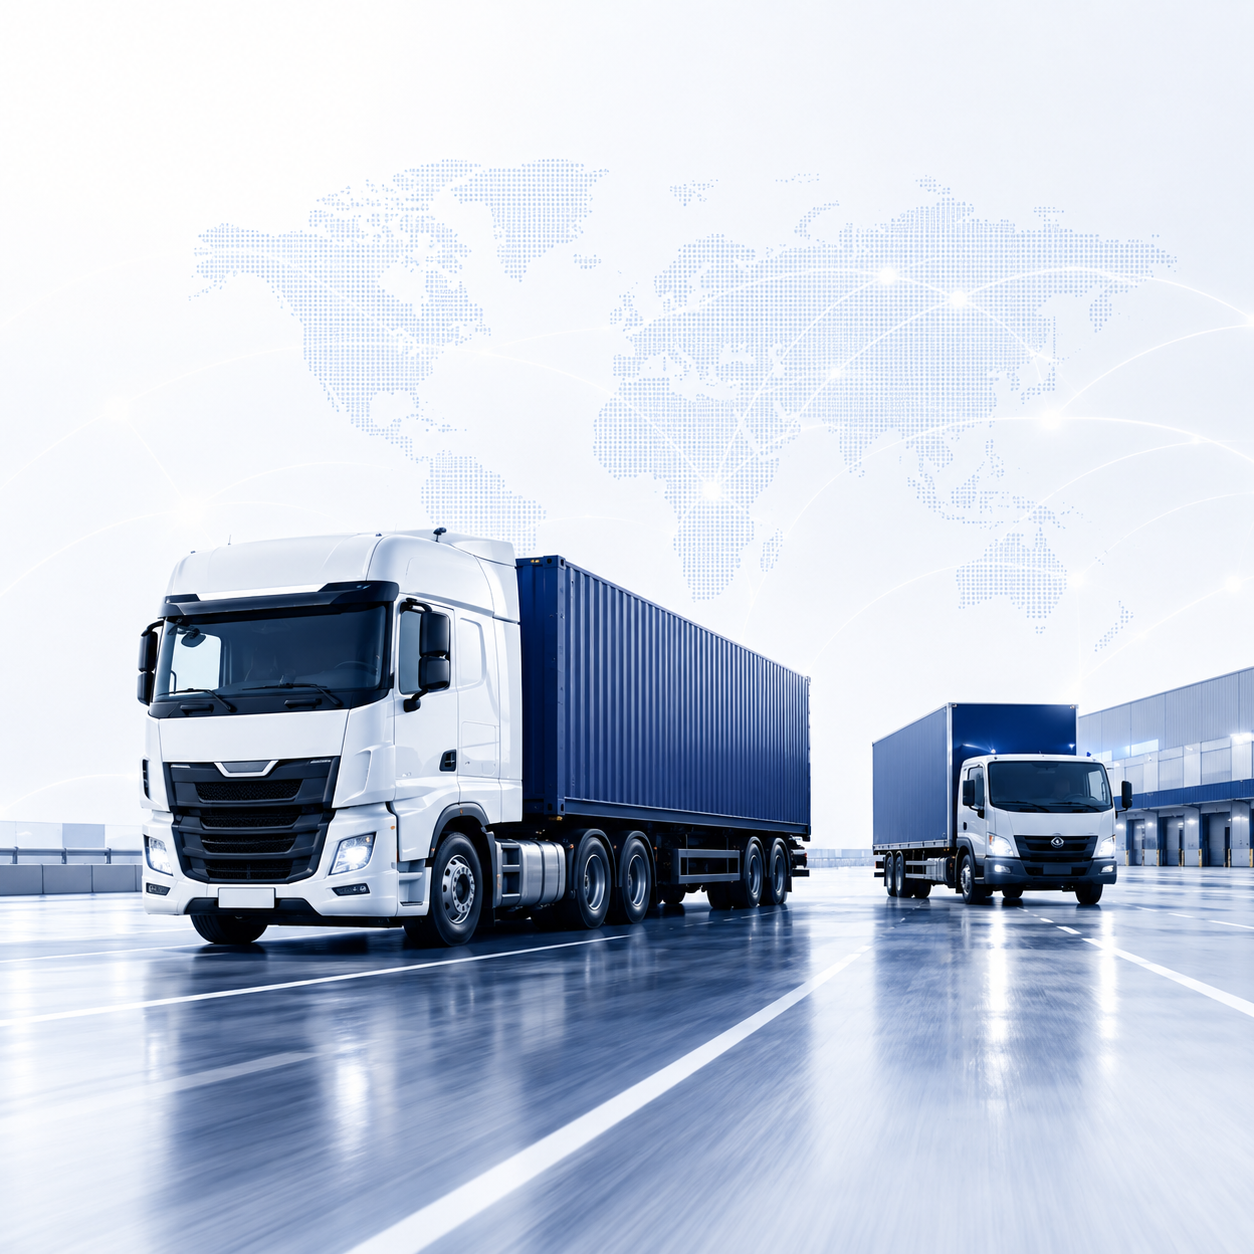
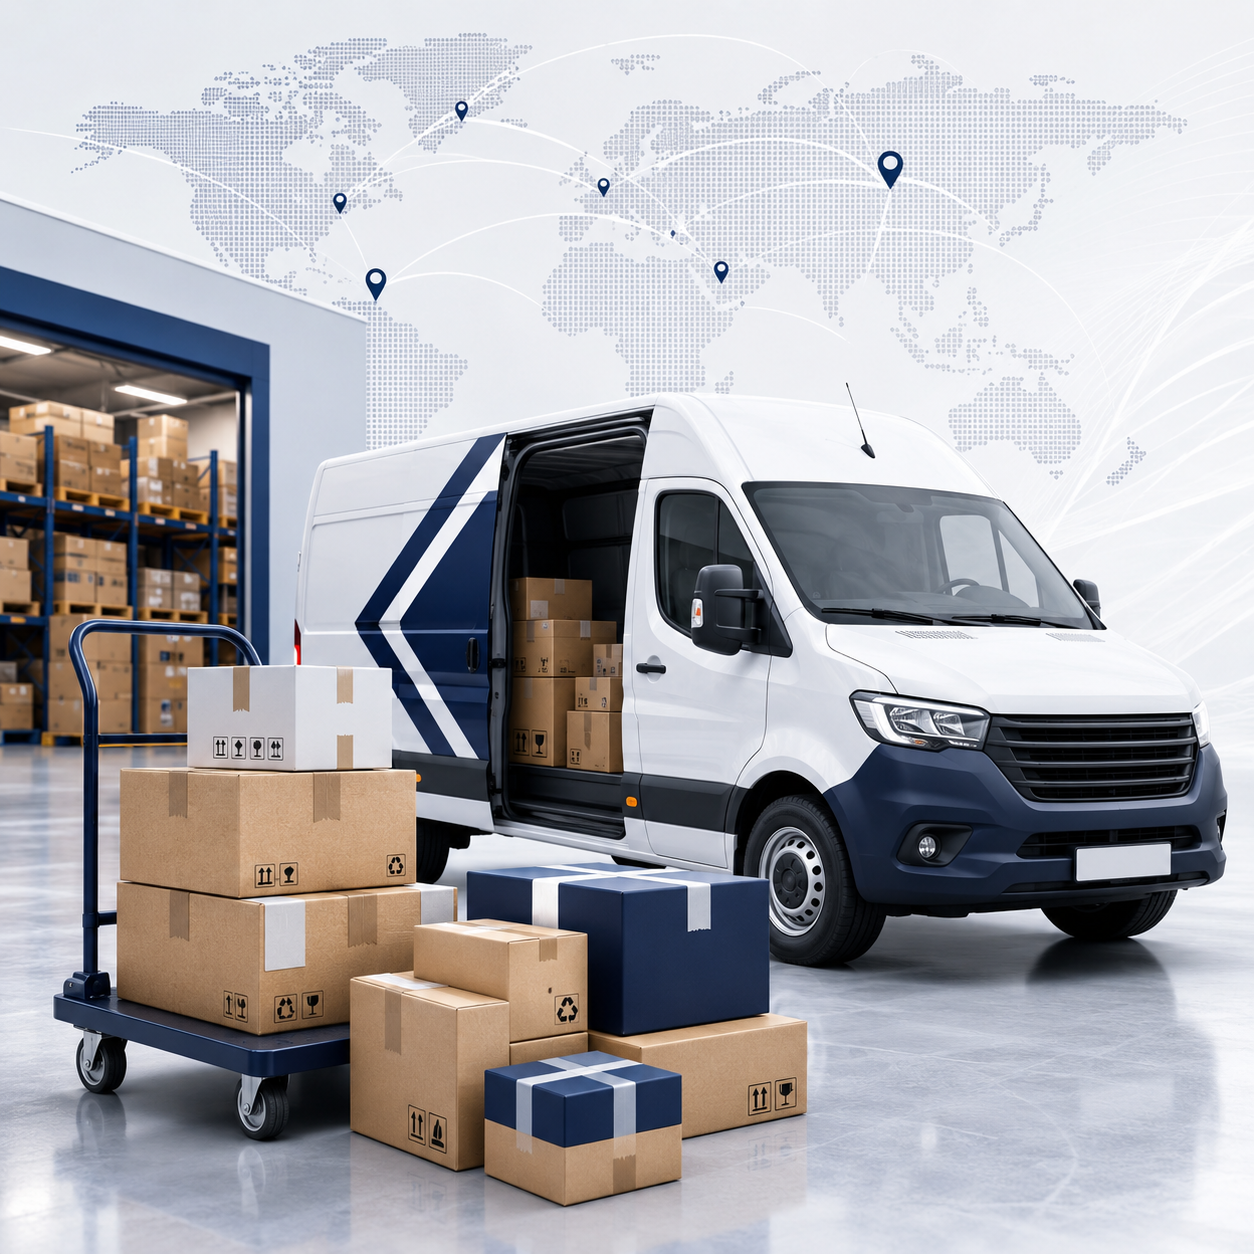
feat(group): nueva imagen courier (van+packages) + bento Features + botones
Imagen Courier:
- Nueva imagen del usuario reemplaza service-courier.png — van blanco
  con cajas + warehouse de fondo + mapa con pins. Mucho más
  representativo del servicio courier que los 2 trucks anteriores.
- La imagen anterior (2 trucks en carretera) se renombró a
  service-logistica.png — es perfecta para Logística internacional
  (representa cargo trucking general).
- SERVICES[home] y SECTIONS[servicios] actualizados para usar
  service-logistica.png en lugar de home-hero-logistics.png para la
  vertical Logística. Asignación final:
    combustible → ISO tanks en puerto
    alimentos   → reefers con frutas
    courier     → van + packages + warehouse (NUEVA)
    logistica   → 2 trucks en carretera

Botones del header (Acceder):
- Ahora con border-2 definido SIEMPRE — antes el estado solid era
  bg navy plano sin borde marcado.
- isSolid (light hero / scrolled): border-navy-900 + bg-navy-900 →
  hover invierte a outlined navy (border-navy-900 + bg-white).
- transparent (hero navy): border-white + bg-white + text-navy →
  hover invierte a outlined white (border-white + transparent).
- Animación de 200ms con elevation y shadow swap.
- Look outlined moderno consistente con los CTAs del hero.

Sección 'Por qué Azahares' — bento layout moderno:
- Layout asimétrico (no más grid uniforme aburrido): 12-col bento
  con card grande feature destacada (col-7) + 2 cards apiladas (col-5).
- Header rediseñado:
  · Eyebrow con pulse ping verde animado.
[…]

diff --git a/src/app/page.tsx b/src/app/page.tsx
@@ -62,7 +62,7 @@ const SERVICES = [
     description:
       "Coordinación end-to-end — booking marítimo o aéreo, despacho aduanero, documentación BIS/EAR99 y última milla con red de partners verificados.",
     cta: "Hablar con ventas",
-    image: "/images/home-hero-logistics.png",
+    image: "/images/service-logistica.png",
   },
 ];
 
@@ -168,90 +168,94 @@ export default function HomePage() {
         </div>
       </section>
 
-      {/* ───── FEATURES — diseño moderno con números + accents animados ───── */}
-      {/* bg-white→navy-50/50 gradient suave que conecta con la siguiente
-          sección (bg-navy-50/60) sin franja blanca residual. */}
+      {/* ───── FEATURES — bento layout moderno ─────
+          Card grande feature destacada a la izquierda + 2 cards
+          apiladas a la derecha. Asimétrico, sin grid uniforme aburrido,
+          con micro-interacciones y profundidad. */}
       <section className="relative overflow-hidden bg-gradient-to-b from-white via-white to-navy-50/40 py-16 sm:py-20 lg:py-24">
-        {/* Decorativo: gradiente radial sutil de fondo */}
+        {/* Decorativos de fondo */}
         <div
           aria-hidden
-          className="pointer-events-none absolute inset-0 opacity-60"
+          className="pointer-events-none absolute inset-0 opacity-70"
           style={{
             background:
-              "radial-gradient(ellipse 60% 50% at 10% 0%, rgba(29,58,138,0.06), transparent 60%), radial-gradient(ellipse 50% 50% at 90% 100%, rgba(29,58,138,0.05), transparent 60%)",
+              "radial-gradient(ellipse 60% 50% at 10% 0%, rgba(29,58,138,0.08), transparent 60%), radial-gradient(ellipse 50% 50% at 90% 100%, rgba(29,58,138,0.06), transparent 60%)",
           }}
         />
+        {/* Grid pattern decorativo top-right */}
+        <svg
+          aria-hidden
+          className="pointer-events-none absolute right-0 top-0 h-72 w-72 opacity-[0.07]"
+          viewBox="0 0 100 100"
+        >
+          <defs>
+            <pattern id="grid" width="10" height="10" patternUnits="userSpaceOnUse">
+              <path d="M 10 0 L 0 0 0 10" fill="none" stroke="#0d1b3d" strokeWidth="0.5" />
+            </pattern>
+          </defs>
+          <rect width="100" height="100" fill="url(#grid)" />
+        </svg>
 
         <div className="relative mx-auto max-w-[1400px] px-5 sm:px-8 lg:px-12">
-          <RevealOnScroll className="mb-12 text-center sm:mb-14">
-            <span className="inline-flex items-center gap-2 rounded-full border border-navy-200 bg-white px-3 py-1 text-[10px] font-bold uppercase tracking-[0.22em] text-navy-700 shadow-[0_4px_18px_rgba(13,27,61,0.06)] sm:text-[11px]">
-              <span className="h-1.5 w-1.5 rounded-full bg-success-500" />
+          {/* ── Header section ── */}
+          <RevealOnScroll className="mb-12 text-center sm:mb-16">
+            <span className="inline-flex items-center gap-2 rounded-full border border-navy-200 bg-white px-3.5 py-1.5 text-[10px] font-bold uppercase tracking-[0.22em] text-navy-700 shadow-[0_4px_18px_rgba(13,27,61,0.08)] sm:text-[11px]">
+              <span className="relative flex h-2 w-2">
+                <span className="absolute inset-0 animate-ping rounded-full bg-success-500 opacity-75" />
+                <span className="relative h-2 w-2 rounded-full bg-success-500" />
+              </span>
               Por qué Azahares
             </span>
-            <h2 className="mt-4 font-serif text-[1.75rem] font-bold leading-tight text-navy-900 sm:text-3xl lg:text-[2.5rem]">
+            <h2 className="mt-5 font-serif text-[1.85rem] font-bold leading-[1.1] text-navy-900 sm:text-[2.25rem] lg:text-[2.75rem]">
               Una sola operación,{" "}
-              <span className="relative inline-block">
+              <span className="relative inline-block whitespace-nowrap">
                 cero fricción
-                <span
+                <svg
                   aria-hidden
-                  className="absolute -bottom-1 left-0 right-0 h-[3px] rounded-full bg-gradient-to-r from-navy-300 via-navy-500 to-navy-300"
-                />
+                  viewBox="0 0 200 12"
+                  className="absolute -bottom-2 left-0 right-0 h-2 w-full"
+                  preserveAspectRatio="none"
+                >
+                  <path
+                    d="M 0 6 Q 50 0, 100 6 T 200 6"
+                    stroke="url(#stroke-grad)"
+                    strokeWidth="3"
+                    fill="none"
+                    strokeLinecap="round"
+                  />
+                  <defs>
+                    <linearGradient id="stroke-grad" x1="0" x2="1">
+                      <stop offset="0%" stopColor="#8caadb" />
+                      <stop offset="50%" stopColor="#1d3a8a" />
+                      <stop offset="100%" stopColor="#8caadb" />
+                    </linearGradient>
+                  </defs>
+                </svg>
               </span>
             </h2>
-            <p className="mx-auto mt-4 max-w-2xl text-[15px] leading-relaxed text-slate-600 sm:text-base">
+            <p className="mx-auto mt-5 max-w-2xl text-[15px] leading-relaxed text-slate-600 sm:text-base">
               Centralizamos cotización, documentación, booking marítimo o
               aéreo, despacho aduanero y delivery. Tu operación arranca en un
               email y termina con el cliente recibiendo la mercadería.
             </p>
           </RevealOnScroll>
 
-          <div className="grid gap-5 md:grid-cols-3 md:gap-6 lg:gap-8">
-            {FEATURES.map((f, i) => (
-              <RevealOnScroll key={f.title} delay={i * 0.1}>
-                <div className="group relative h-full overflow-hidden rounded-3xl border border-navy-100 bg-white p-7 transition-all duration-500 hover:-translate-y-2 hover:border-navy-200 hover:shadow-[0_24px_60px_-12px_rgba(13,27,61,0.22)] lg:p-8">
-                  {/* Hover accent — barra de gradient navy aparece arriba */}
-                  <div
-                    aria-hidden
-                    className="absolute inset-x-0 top-0 h-1 origin-left scale-x-0 bg-gradient-to-r from-navy-500 via-navy-700 to-navy-900 transition-transform duration-500 group-hover:scale-x-100"
-                  />
+          {/* ── Bento grid ── */}
+          <div className="grid gap-5 lg:grid-cols-12 lg:gap-6">
+            {/* Feature destacada (col-7) — Precio CIF */}
+            <RevealOnScroll className="lg:col-span-7" delay={0.05}>
+              <FeatureCardLarge feature={FEATURES[0]} index={1} />
+            </RevealOnScroll>
 
-                  {/* Número grande fantasma */}
-                  <div className="pointer-events-none absolute right-5 top-4 select-none font-serif text-7xl font-bold leading-none text-navy-900/[0.04] transition-colors duration-500 group-hover:text-navy-900/[0.08]">
-                    0{i + 1}
-                  </div>
-
-                  {/* Icono — caja navy con glow al hover */}
-                  <div className="relative inline-grid h-14 w-14 place-items-center rounded-2xl bg-navy-900 text-white shadow-[0_10px_24px_rgba(13,27,61,0.28)] transition-all duration-500 group-hover:scale-110 group-hover:rotate-3 group-hover:shadow-[0_16px_36px_rgba(13,27,61,0.42)]">
-                    <f.icon className="h-6 w-6" strokeWidth={2.2} />
-                    {/* Pulse dot */}
-                    <span
-                      aria-hidden
-                      className="absolute -right-1 -top-1 h-3 w-3 rounded-full bg-success-500 ring-4 ring-white"
-                    />
-                  </div>
-
-                  <h3 className="relative mt-6 font-serif text-xl font-bold leading-tight text-navy-900 lg:text-[1.35rem]">
-                    {f.title}
-                  </h3>
-
-                  {/* Underline accent que crece al hover */}
-                  <div
-                    aria-hidden
-                    className="mt-2 h-0.5 w-8 origin-left bg-navy-300 transition-all duration-500 group-hover:w-16 group-hover:bg-navy-700"
-                  />
-
-                  <p className="relative mt-4 text-[14.5px] leading-relaxed text-slate-600">
-                    {f.desc}
-                  </p>
-
-                  {/* Read-more chevron que aparece al hover */}
-                  <div className="relative mt-5 inline-flex items-center gap-1 text-[11px] font-bold uppercase tracking-wider text-navy-700 opacity-0 transition-all duration-500 group-hover:opacity-100">
-                    <span>Saber más</span>
-                    <ArrowRight className="h-3 w-3 transition-transform duration-500 group-hover:translate-x-1" />
-                  </div>
-                </div>
+            {/* Sub-features (col-5) — apiladas */}
+            <div className="grid gap-5 lg:col-span-5">
+              <RevealOnScroll delay={0.15}>
+                <FeatureCardSmall feature={FEATURES[1]} index={2} />
               </RevealOnScroll>
-            ))}
+              <RevealOnScroll delay={0.25}>
+                <FeatureCardSmall feature={FEATURES[2]} index={3} />
+              </RevealOnScroll>
+            </div>
           </div>
         </div>
       </section>
@@ -356,3 +360,191 @@ export default function HomePage() {
   );
 }
 
+// ============================================================================
+// Bento Feature Cards
+// ============================================================================
+
+type FeatureItem = (typeof FEATURES)[number];
+
+/**
+ * Card grande destacada del bento — col-span-7 en desktop. Usa la primera
+ * feature (Precio CIF cerrado) como hero del bloque "Por qué Azahares".
+ * Layout split: visual a la derecha + contenido a la izquierda.
+ */
+function FeatureCardLarge({
+  feature,
+  index,
+}: {
+  feature: FeatureItem;
+  index: number;
+}) {
+  const Icon = feature.icon;
+  return (
+    <div className="group relative h-full overflow-hidden rounded-3xl border border-navy-100 bg-white p-7 transition-all duration-500 hover:-translate-y-2 hover:border-navy-200 hover:shadow-[0_28px_70px_-12px_rgba(13,27,61,0.25)] sm:p-8 lg:p-10">
+      {/* Top accent bar */}
+      <div
+        aria-hidden
+        className="absolute inset-x-0 top-0 h-1 origin-left scale-x-0 bg-gradient-to-r from-navy-500 via-navy-700 to-navy-900 transition-transform duration-500 group-hover:scale-x-100"
+      />
+
+      {/* Gradient orb decorative */}
+      <div
+        aria-hidden
+        className="pointer-events-none absolute -right-20 -top-20 h-72 w-72 rounded-full bg-gradient-to-br from-navy-100/60 to-transparent blur-3xl transition-opacity duration-700 group-hover:opacity-100 opacity-70"
+      />
+
+      <div className="relative grid gap-8 sm:grid-cols-[1.2fr_1fr] sm:items-center">
+        <div>
+          {/* Step pill */}
+          <div className="inline-flex items-center gap-2 rounded-full border border-navy-200 bg-navy-50/60 px-3 py-1 text-[10px] font-bold uppercase tracking-[0.18em] text-navy-700">
+            <span className="font-mono tabular-nums">0{index}</span>
+            <span className="h-1 w-1 rounded-full bg-navy-400" />
+            <span>Diferencial principal</span>
+          </div>
+
+          {/* Icon + title */}
+          <div className="mt-5 flex items-start gap-4">
+            <div className="grid h-14 w-14 shrink-0 place-items-center rounded-2xl bg-navy-900 text-white shadow-[0_10px_24px_rgba(13,27,61,0.28)] transition-all duration-500 group-hover:scale-110 group-hover:rotate-3 sm:h-16 sm:w-16">
+              <Icon className="h-6 w-6 sm:h-7 sm:w-7" strokeWidth={2.2} />
+            </div>
+            <div className="min-w-0">
+              <h3 className="font-serif text-[1.4rem] font-bold leading-tight text-navy-900 sm:text-[1.65rem]">
+                {feature.title}
+              </h3>
+              <div
+                aria-hidden
+                className="mt-2 h-0.5 w-10 origin-left bg-navy-300 transition-all duration-500 group-hover:w-20 group-hover:bg-navy-700"
+              />
+            </div>
+          </div>
+
+          <p className="mt-5 text-[15px] leading-relaxed text-slate-600 sm:text-[15.5px]">
+            {feature.desc}
+          </p>
+
+          {/* Checklist de items que SÍ están incluidos en CIF */}
+          <ul className="mt-6 grid grid-cols-2 gap-2 text-[12px] sm:gap-x-4">
+            {[
+              "Flete marítimo/aéreo",
+              "Despacho aduanero",
+              "Documentación",
+              "Última milla",
+            ].map((item) => (
+              <li
+                key={item}
+                className="flex items-center gap-2 text-navy-800"
+              >
+                <CheckCircle2
+                  className="h-3.5 w-3.5 shrink-0 text-success-500"
+                  strokeWidth={2.5}
+                />
+                <span>{item}</span>
+              </li>
+            ))}
+          </ul>
+        </div>
+
+        {/* Visual — cotización mockup */}
+        <div className="relative">
+          <div
+            aria-hidden
+            className="pointer-events-none absolute -inset-4 -z-10 rounded-3xl bg-gradient-to-br from-navy-100/30 to-navy-200/20 blur-2xl"
+          />
+          <div className="rounded-2xl border border-navy-100 bg-gradient-to-br from-white to-navy-50/50 p-5 shadow-[0_18px_44px_rgba(13,27,61,0.08)] transition-transform duration-500 group-hover:-rotate-1">
+            <div className="text-[9px] font-bold uppercase tracking-wider text-navy-500">
+              Cotización · COT-25-0001
+            </div>
+            <div className="mt-3 space-y-2 text-[11px]">
+              {[
+                { l: "FOB combustible", v: "$ 63,920" },
+                { l: "Flete marítimo", v: "$  5,300" },
+                { l: "THC + ISPD", v: "$  3,300" },
+                { l: "Seguro", v: "$    800" },
+              ].map((r) => (
+                <div
+                  key={r.l}
+                  className="flex items-baseline justify-between text-slate-600"
+                >
+                  <span>{r.l}</span>
+                  <span className="font-mono tabular-nums">{r.v}</span>
+                </div>
+              ))}
+            </div>
+            <div className="mt-4 rounded-xl bg-navy-900 px-4 py-3 text-white">
+              <div className="text-[9px] uppercase tracking-wider text-white/60">
+                Total CIF
+              </div>
+              <div className="mt-0.5 flex items-baseline justify-between">
+                <span className="font-mono text-xl font-bold tabular-nums">
+                  $ 73,320
+                </span>
+                <span className="rounded-full bg-success-500/20 px-2 py-0.5 text-[9px] font-bold uppercase tracking-wider text-success-300">
+                  Cerrado
+                </span>
+              </div>
+            </div>
+          </div>
+        </div>
+      </div>
+    </div>
+  );
+}
+
+/**
+ * Card pequeña del bento — col-span-5 lado a lado. Una versión más
+ * compacta para las features secundarias.
+ */
+function FeatureCardSmall({
+  feature,
+  index,
+}: {
+  feature: FeatureItem;
+  index: number;
+}) {
+  const Icon = feature.icon;
+  return (
+    <div className="group relative h-full overflow-hidden rounded-3xl border border-navy-100 bg-white p-6 transition-all duration-500 hover:-translate-y-1.5 hover:border-navy-200 hover:shadow-[0_22px_55px_-12px_rgba(13,27,61,0.22)] sm:p-7">
+      {/* Top accent bar */}
+      <div
+        aria-hidden
+        className="absolute inset-x-0 top-0 h-1 origin-left scale-x-0 bg-gradient-to-r from-navy-500 via-navy-700 to-navy-900 transition-transform duration-500 group-hover:scale-x-100"
+      />
+
+      <div className="flex items-start gap-4">
+        <div className="relative">
+          <div className="grid h-12 w-12 place-items-center rounded-2xl bg-navy-900 text-white shadow-[0_10px_24px_rgba(13,27,61,0.28)] transition-all duration-500 group-hover:scale-110 group-hover:rotate-3">
+            <Icon className="h-5 w-5" strokeWidth={2.2} />
+          </div>
+          <span
+            aria-hidden
+            className="absolute -right-1 -top-1 h-3 w-3 rounded-full bg-success-500 ring-4 ring-white"
+          />
+        </div>
+        <div className="min-w-0 flex-1">
+          {/* Step number */}
+          <div className="font-mono text-[10px] font-bold uppercase tracking-[0.2em] text-navy-500">
+            0{index} · Operación
+          </div>
+          <h3 className="mt-1 font-serif text-lg font-bold leading-tight text-navy-900 sm:text-xl">
+            {feature.title}
+          </h3>
+        </div>
+      </div>
+
+      <div
+        aria-hidden
+        className="mt-4 h-0.5 w-10 origin-left bg-navy-300 transition-all duration-500 group-hover:w-20 group-hover:bg-navy-700"
+      />
+
+      <p className="mt-3 text-[14px] leading-relaxed text-slate-600">
+        {feature.desc}
+      </p>
+
+      {/* Read-more chevron al hover */}
+      <div className="mt-4 inline-flex items-center gap-1 text-[11px] font-bold uppercase tracking-wider text-navy-700 opacity-0 transition-all duration-500 group-hover:opacity-100">
+        <span>Ver detalle</span>
+        <ArrowRight className="h-3 w-3 transition-transform duration-500 group-hover:translate-x-1" />
+      </div>
+    </div>
+  );
+}

diff --git a/src/components/Navbar.tsx b/src/components/Navbar.tsx
@@ -86,15 +86,18 @@ export function Navbar() {
               {l.label}
             </Link>
           ))}
+          {/* Botón Acceder con borde-2 definido siempre, en ambos estados.
+              Cuando isSolid: borde navy + bg navy → hover invierte a outlined.
+              Cuando transparent: borde blanco + bg transparente → hover llena
+              con white. Look outlined moderno consistente con los CTAs del hero. */}
           <a
             href={env.loginUrl}
             className={
-              "ml-3 text-sm " +
+              "ml-3 inline-flex items-center gap-2 rounded-full border-2 px-5 py-2.5 text-sm font-bold transition-all duration-200 hover:-translate-y-0.5 " +
               (isSolid
-                ? "inline-flex items-center gap-2 rounded-full bg-navy-900 px-5 py-2.5 font-bold text-white shadow-[0_8px_24px_rgba(13,27,61,0.25)] transition hover:-translate-y-0.5 hover:bg-navy-700"
-                : "btn-glass-primary")
+                ? "border-navy-900 bg-navy-900 text-white shadow-[0_8px_24px_rgba(13,27,61,0.28)] hover:border-navy-900 hover:bg-white hover:text-navy-900 hover:shadow-[0_10px_28px_rgba(13,27,61,0.18)]"
+                : "border-white bg-white text-navy-900 shadow-[0_8px_24px_rgba(13,27,61,0.28)] hover:bg-transparent hover:text-white")
             }
-            style={isSolid ? undefined : { padding: "0.6rem 1.4rem" }}
           >
             <LogIn className="h-4 w-4" />
             Acceder

diff --git a/src/app/servicios/page.tsx b/src/app/servicios/page.tsx
@@ -69,7 +69,7 @@ const SECTIONS = [
     id: "logistica",
     eyebrow: "Logística integral",
     title: "Coordinación end-to-end",
-    image: "/images/home-hero-logistics.png",
+    image: "/images/service-logistica.png",
     intro:
       "Si necesitás importar o exportar cargas distintas, también las movemos. Coordinamos FCL/LCL, despacho aduanero, documentación y delivery final en cualquier destino.",
     bullets: [